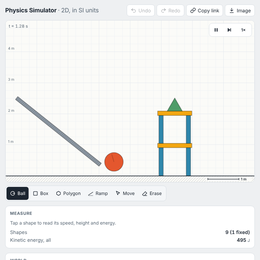
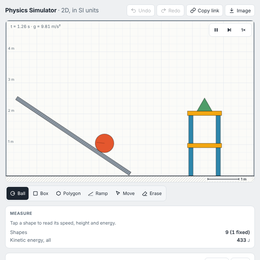
Physics Simulator: fixes from the second round of testers and critic
Bounce and friction travel in preset links; a ramp shows when boxes slide on
it (friction < tan θ) and the textbook speeds for its drop; a ball tapped
above a slope is set down onto it; the starter's ramp meets the floor; the
ball readout holds its top speed against the no-loss speed at that moment and
says where lost energy went; pinball bumpers no longer overlap; presets made
for dragging switch to Move; the desktop readout no longer spills over.

Claude-Session: https://claude.ai/code/session_01PtGPta4kEky6tFDtrsbbRC

diff --git a/tools/physics_simulator.html b/tools/physics_simulator.html
@@ -29,14 +29,15 @@ h1 span{font-weight:400;color:var(--soft)}
 .ib .tp{display:none}
 .layout{display:grid;gap:14px;grid-template-columns:minmax(0,1fr) 300px;grid-template-areas:'main side' 'scenes side';grid-template-rows:auto 1fr;align-items:start}
 .main{grid-area:main;min-width:0}
-.side{grid-area:side}
+.side{grid-area:side;min-width:0}
+.side .card{min-width:0}
 .scenes{grid-area:scenes}
 .scenes .presets{grid-template-columns:repeat(auto-fill,minmax(112px,1fr))}
 .scenes h2 .row{margin:0 0 0 auto;text-transform:none;letter-spacing:0}
 .scenes h2 .ib{height:30px;font-size:13px;font-weight:500;color:var(--ink)}
 .stage{position:relative;aspect-ratio:8/5.2;max-height:calc(100vh - 150px);max-height:calc(100svh - 150px);min-height:220px;margin:0 auto;border:1px solid var(--line);border-radius:12px;overflow:hidden;background:var(--paper)}
 canvas{display:block;width:100%;height:100%;touch-action:none;user-select:none;-webkit-user-select:none}
-.hud{position:absolute;top:8px;left:10px;font-size:13px;color:var(--soft);pointer-events:none}
+.hud{position:absolute;top:8px;left:10px;font-size:13px;color:var(--soft);pointer-events:none;background:color-mix(in srgb,var(--paper) 85%,transparent);border-radius:5px;padding:1px 5px}
 .play{position:absolute;top:8px;right:8px;display:flex;gap:4px;background:color-mix(in srgb,var(--card) 88%,transparent);border:1px solid var(--line);border-radius:10px;padding:3px}
 .play button{height:34px;min-width:36px;border:0;background:none;border-radius:7px;display:inline-flex;align-items:center;justify-content:center;padding:0 8px}
 .play button:hover{background:var(--btn)}
@@ -65,15 +66,18 @@ canvas{display:block;width:100%;height:100%;touch-action:none;user-select:none;-
 aside{display:grid;gap:14px}
 .card{background:var(--card);border:1px solid var(--line);border-radius:12px;padding:14px}
 .card h2{font-size:.8rem;text-transform:uppercase;letter-spacing:.06em;color:var(--soft);margin:0 0 10px;font-weight:650;display:flex;align-items:center;gap:8px}
-.ro .who{display:flex;align-items:center;gap:8px;font-weight:650;min-height:30px;margin-bottom:6px;padding-right:180px;white-space:nowrap;overflow:hidden}
+.ro .who{display:flex;align-items:center;gap:8px;font-weight:650;min-height:30px;margin-bottom:6px;white-space:nowrap;overflow:hidden}
 .ro .who span:last-child{overflow:hidden;text-overflow:ellipsis;min-width:0}
 .ro .sw{width:14px;height:14px;border-radius:4px;border:1px solid rgba(0,0,0,.25);flex:none}
 .ro .sw.round{border-radius:50%}
 .ro dl{display:grid;gap:3px;margin:0}
 .ro .m.tot{border-top:1px solid var(--line);padding-top:4px;margin-top:2px}
+.ro .m.chg dd{white-space:normal;text-align:right}
+.ro .m.chg dt{font-size:13px}
 .ro .m{display:flex;justify-content:space-between;align-items:baseline;gap:12px}
 .ro dt{color:var(--soft)}
 .ro dd{margin:0;text-align:right;font-weight:600;white-space:nowrap}
+.ro dt{min-width:0}
 .ro dd small{font-weight:400;color:var(--soft)}
 .ro .big{border-bottom:1px solid var(--line);padding-bottom:6px;margin-bottom:3px}
 .ro .big b{font-size:1.9rem;line-height:1.1;letter-spacing:-.01em}
@@ -127,13 +131,15 @@ aside{display:grid;gap:14px}
   .ro .m{display:block}
   .ro .m.tot{grid-column:1/-1;display:flex;justify-content:space-between;align-items:baseline}
   .ro .m.tot dt{font-size:14px;color:var(--ink);font-weight:600}
+  .ro .m.chg{grid-column:1/-1;display:flex;justify-content:space-between;gap:10px}
   .ro dt{font-size:12px}
   .ro dd{text-align:left}
   .ro .big{border:0;padding:0;margin:0}
   .ro .big b{font-size:1.25rem}
   .ro h2{display:none}
-  .scenes .presets{grid-template-columns:repeat(3,minmax(0,1fr))}
-  .scenes .presets button{font-size:13px;padding:4px 6px;min-height:40px}
+  .ro .who{padding-right:190px}
+  .scenes .presets{grid-template-columns:repeat(4,minmax(0,1fr));gap:5px}
+  .scenes .presets button{font-size:12.5px;padding:3px 5px;min-height:38px;line-height:1.2}
 
 
   .ro dl.idle{grid-template-columns:1fr 1fr}
@@ -398,12 +404,20 @@ function setFixed(w, b, on) {
   return true;
 }
 
-// Move a new body up until it overlaps nothing (at most `max` metres). A shape tapped onto a ramp sits on it.
-function settle(w, b, max) {
+// Place a new body so it rests where it was tapped: up out of anything it overlaps (at most `max` m), or, when it
+// was tapped just above something (within `drop` m), down until it touches. A ball tapped at a ramp's top sits on it.
+function settle(w, b, max, drop) {
   const overlaps = () => w.bodies.some(o => o !== b && !(o.maxX < b.minX || o.minX > b.maxX || o.maxY < b.minY || o.minY > b.maxY) && (() => { const m = o.id < b.id ? collide(o, b) : collide(b, o); return m && m.pts.some(p => p.pen > 0.002); })());
   let moved = 0;
   while (overlaps() && moved < (max || 1)) { b.y += 0.01; moved += 0.01; updateCache(b); }
-  return moved;
+  if (moved || !drop) return moved;
+  const y0 = b.y;
+  for (let d = 0.005; d <= drop + 1e-9; d += 0.005) {
+    b.y = y0 - d; updateCache(b);
+    if (b.minY < 0 || overlaps()) { b.y = y0 - d + 0.005; updateCache(b); return d > 0.005 ? -(d - 0.005) : 0; }
+  }
+  b.y = y0; updateCache(b);
+  return 0;
 }
 
 function removeBody(w, b) {
@@ -858,11 +872,13 @@ function rngFrom(seed) { let s = seed >>> 0 || 1; return () => { s ^= s << 13; s
 const PRESETS = {
   starter: {name: 'Ramp and stack', build(W, H) {
     // a fixed plank, a ball at its top, and a stack it reaches: the worked example on first visit
-    const b = [], x1 = Math.min(W * 0.38, 4.6), y0 = Math.min(H * 0.5, 3.4), y1 = 0.35, x0 = 0.35;
+    // the plank's lower end rests on the floor and the ball starts at its top, so the ball's top speed can be
+    // held against the textbook figure the ramp's own readout gives
+    const b = [], x1 = Math.min(W * 0.5, 4.6), y0 = Math.min(H * 0.5, 2.6), y1 = 0.06, x0 = 0.35;
     const L = Math.hypot(x1 - x0, y0 - y1), ang = Math.atan2(y1 - y0, x1 - x0), t = 0.12;
     b.push({s: 'p', v: boxVerts(L, t), x: (x0 + x1) / 2, y: (y0 + y1) / 2, a: ang, f: 1, c: '#8b96a1', l: 'ramp'});
     const r = 0.3, nx = -Math.sin(ang), ny = Math.cos(ang);
-    b.push({s: 'c', r, x: x0 + 0.5 * Math.cos(ang) + nx * (r + t / 2 + 0.01), y: y0 + 0.5 * Math.sin(ang) + ny * (r + t / 2 + 0.01), a: 0, c: '#e4572e'});
+    b.push({s: 'c', r, x: x0 + 0.3 * Math.cos(ang) + nx * (r + t / 2 + 0.002), y: y0 + 0.3 * Math.sin(ang) + ny * (r + t / 2 + 0.002), a: 0, c: '#e4572e'});
     // two storeys of uprights and lintels, as children build them
     const uw = 0.14, uh = 0.9, lw = 1.1, lh = 0.14, sx = Math.min(x1 + 2.4, W - lw / 2 - 0.4);
     for (let storey = 0; storey < 2; storey++) {
@@ -913,12 +929,13 @@ const PRESETS = {
     const b = [], cx = W / 2, half = Math.min(W / 2 - 0.15, 3.2), fl = Math.min(1.1, half * 0.36), fy = 0.9, rest = 0.45;
     const tip = 0.25, pL = [cx - tip - fl * Math.cos(rest), fy + fl * Math.sin(rest)], pR = [cx + tip + fl * Math.cos(rest), pL[1]];
     const rail = (x0, y0, x1, y1) => { const L = Math.hypot(x1 - x0, y1 - y0); b.push({s: 'p', v: boxVerts(L, 0.12), x: (x0 + x1) / 2, y: (y0 + y1) / 2, a: Math.atan2(y1 - y0, x1 - x0), f: 1, c: '#8b96a1', l: 'ramp'}); };
-    const gy = pL[1] + Math.min(1.6, (cx - half - pL[0]) * -0.6 + 0.4);
+    const gy = pL[1] + 0.9;
     rail(cx - half, gy, pL[0] - 0.02, pL[1] + 0.08);
     rail(cx + half, gy, pR[0] + 0.02, pR[1] + 0.08);
     if (cx - half > 0.3) { rail(cx - half, gy, cx - half, H); rail(cx + half, gy, cx + half, H); }
-    const bumpR = Math.min(0.3, half * 0.1), top = H - 1.0, span = top - (gy + 0.8);
-    for (const [fx, fy2] of [[-0.45, 0.85], [0.45, 0.85], [0, 0.55], [-0.5, 0.2], [0.5, 0.2]]) b.push({s: 'c', r: bumpR, x: cx + fx * half, y: gy + 0.8 + fy2 * span, a: 0, f: 1, e: 1.1, c: '#f3a712', l: 'bumper'});
+    // five bumpers in two staggered rows, at least a ball's width apart
+    const bumpR = Math.min(0.28, half * 0.1), r1 = gy + 0.75, r2 = Math.min(H - 0.9, r1 + 0.95), top = H - 0.4;
+    for (const [fx, y] of [[-0.55, r1], [0, r1], [0.55, r1], [-0.28, r2], [0.28, r2]]) b.push({s: 'c', r: bumpR, x: cx + fx * half, y, a: 0, f: 1, e: 1.1, c: '#f3a712', l: 'bumper'});
     b.push({s: 'p', v: boxVerts(fl, 0.16), x: pL[0] + Math.cos(-rest) * fl / 2, y: pL[1] + Math.sin(-rest) * fl / 2, a: -rest, k: 1, c: '#2e86ab', l: 'flipL', mu: 0.3});
     b.push({s: 'p', v: boxVerts(fl, 0.16), x: pR[0] - Math.cos(rest) * fl / 2, y: pR[1] - Math.sin(rest) * fl / 2, a: rest, k: 1, c: '#2e86ab', l: 'flipR', mu: 0.3});
     b.push({s: 'c', r: 0.15, x: cx + half * 0.2, y: top, a: 0, e: 0.5, c: '#e4572e', l: 'ball'});
@@ -949,7 +966,7 @@ function buildPreset(id, W, H, opt) {
   return {v: 1, g: d.g, e: opt && fin(opt.e) ? opt.e : 0.4, mu: opt && fin(opt.mu) ? opt.mu : 0.5, W, H, bodies: d.bodies, joints: d.joints || [], extra: Object.assign({preset: id}, d.extra || {})};
 }
 
-// Hash links: #preset=cradle, #g=1.62, #s=<scene> (the last only when someone asks for a link)
+// Hash links: #preset=cradle, #g=1.62, #e=0.8 (bounce), #mu=0.2 (friction), #s=<scene> (the last only when someone asks for a link)
 function parseHash(hash) {
   const out = {};
   const h = String(hash || '').replace(/^#/, '');
@@ -959,6 +976,8 @@ function parseHash(hash) {
     const k = part.slice(0, i), v = part.slice(i + 1);
     if (k === 'preset') { let id = decodeURIComponent(v).toLowerCase(); id = ({newton: 'cradle', newtons_cradle: 'cradle', domino: 'dominoes', stack: 'tower', sling: 'slingshot', billiards: 'pool'})[id] || id; if (PRESETS[id]) out.preset = id; else out.badPreset = id.slice(0, 30); }
     else if (k === 'g') { const r = parseNumber(decodeURIComponent(v), 0, G_MAX, 'gravity'); if (r.ok) out.g = r.value; }
+    else if (k === 'e') { const r = parseNumber(decodeURIComponent(v), 0, 1); if (r.ok) out.e = r.value; }
+    else if (k === 'mu') { const r = parseNumber(decodeURIComponent(v), 0, 1.5); if (r.ok) out.mu = r.value; }
     else if (k === 's') out.scene = v;
   }
   return out;
@@ -1057,12 +1076,13 @@ function loadPreset(id, opts) {
   const r = P.deserialize(d, worldW(), worldH());
   dirty = false;
   install(r.world, r.extra, true);
+  if (['slingshot', 'pool', 'tower', 'pinball'].includes(id) && !(opts && opts.keepTool)) setTool('move');
   if (!(opts && opts.quiet)) say(`${P.PRESETS[id].name}: ${presetHint(id)}`);
   save();
 }
 function presetHint(id) {
   return ({starter: 'the ball rolls down the ramp into the stack.', dominoes: 'the ball sets off the row.', cradle: 'watch the swing pass along the row.',
-    tower: 'drag a block out, or throw something at it.', slingshot: 'pull the stone back and let go.', pinball: 'the table is tilted, so gravity here is 6 m/s². Flippers: ← → keys or the buttons.',
+    tower: 'drag a block out, or throw something at it.', slingshot: 'pull the stone back and let go.', pinball: 'tilted table, g = 6 m/s². Flip with ← → or the buttons.',
     pool: 'drag the white ball and let go to shoot. Gravity is off: you look down on the table.'})[id] || '';
 }
 function markPreset(id) { for (const b of $('presets').children) b.setAttribute('aria-current', b.dataset.id === id ? 'true' : 'false'); }
@@ -1084,7 +1104,7 @@ function setGravity(g, from) {
     // say why a swinging or flying thing suddenly rises higher (or drops) than it started
     const moving = P.userBodies(world).some(b => b.invM > 0 && Math.hypot(b.vx, b.vy) > 0.3);
     clearTimeout(gHintT);
-    if (moving) gHintT = setTimeout(() => say(g < old ? 'Gravity is lower now: moving things keep their speed, so they rise higher than they started.' : 'Gravity is higher now: moving things keep their speed but won’t rise as high.'), 300);
+    if (moving) gHintT = setTimeout(() => say(g < old ? 'Gravity is lower now: moving things keep their speed, so they rise higher than they started. Pick the scene again to start it fresh.' : 'Gravity is higher now: moving things keep their speed but won’t rise as high.'), 300);
   }
   if (from !== 'text') { $('gtext').value = fmtG(g); $('gtext').removeAttribute('aria-invalid'); $('gerr').textContent = ''; }
   if (from !== 'range') $('grange').value = Math.min(30, g);
@@ -1360,7 +1380,7 @@ function endPointer(e) {
     pushUndo();
     const b = P.addBody(world, s);
     if (!b) { undo.pop(); syncUndo(); say('That shape is too small to make. Drag a little further.', true); return; }
-    if (!d.moved && !b.fixed) P.settle(world, b, 1.5);
+    if (!d.moved && !b.fixed) P.settle(world, b, 1.5, 0.4);
     select(b); edited();
     say('');
   } else if (d.kind === 'grab') {
@@ -1391,7 +1411,7 @@ function select(b) {
   renderReadout(true);
   if (b) announce(`Selected ${shapeName(b).toLowerCase()}${b.invM ? ', ' + fmtKg(b.m) + ' kilograms' : ', fixed'}.`);
 }
-let roT = 0, shownSpeed = '', peak = null, e0 = null;
+let roT = 0, shownSpeed = '', peak = null, e0 = null, k0 = 0, y0 = 0, t0 = 0;
 function ramp(b) { // a plank's own geometry: length along it, tilt from level, its two ends
   if (b.shape !== 'poly' || b.verts.length !== 4) return null;
   const e1 = Math.hypot(b.verts[1][0] - b.verts[0][0], b.verts[1][1] - b.verts[0][1]), e2 = Math.hypot(b.verts[2][0] - b.verts[1][0], b.verts[2][1] - b.verts[1][1]);
@@ -1405,14 +1425,20 @@ function renderFixed(el, force) {
   if (el.dataset.mode !== 'fixed' || force) {
     el.dataset.mode = 'fixed';
     el.innerHTML = `<div class="who"><span class="sw${b.shape === 'circle' ? ' round' : ''}" style="background:${b.color}"></span><span id="r_name"></span><span id="r_m" class="num" style="font-weight:400;color:var(--soft)"></span></div>
-      <dl>${r ? `<div class="m big"><dt>Angle</dt><dd><b id="f_deg"></b> <small>°</small></dd></div><div class="m"><dt>Length</dt><dd id="f_len"></dd></div>` : `<div class="m"><dt>Size</dt><dd id="f_size"></dd></div>`}
+      <dl>${r ? `<div class="m big"><dt>Angle</dt><dd><b id="f_deg"></b> <small>°</small></dd></div><div class="m"><dt>Length</dt><dd id="f_len"></dd></div><div class="m" title="A box on this slope slides when friction is below tan θ, whatever the gravity"><dt>Boxes slide if friction &lt;</dt><dd id="f_tan"></dd></div>
+      <div class="m" title="Height difference between the two ends of its top face"><dt>Drop of its top face</dt><dd id="f_drop"></dd></div>
+      <div class="m" title="From rest at the top to the lower end, with no losses: a rolling ball reaches √(10gh/7)"><dt>Rolled from top to bottom</dt><dd id="f_roll"></dd></div>
+      <div class="m" title="From rest at the top to the lower end, with no friction: a sliding body reaches √(2gh)"><dt>Slid from top to bottom</dt><dd id="f_slide"></dd></div>` : `<div class="m"><dt>Size</dt><dd id="f_size"></dd></div>`}
       <div class="m"><dt>Top edge</dt><dd id="f_top"></dd></div><div class="m"><dt>Bottom edge</dt><dd id="f_bot"></dd></div></dl>
-      <div class="rorow"><button class="ib" id="r_fix" title="Pin this shape where it is, or let it go (F)"><svg viewBox="0 0 24 24" fill="none" stroke="currentColor" stroke-width="2" stroke-linecap="round" stroke-linejoin="round"><path d="M12 17v5"/><path d="M9 3h6l-1 6 3 3v2H7v-2l3-3Z"/></svg><span id="r_fixt">Release</span></button><button class="ib" id="r_x" title="Deselect (Esc)">Done</button></div>`;
+      <div class="rorow"><button class="ib" id="r_fix" title="Pin this shape where it is, or let it go (F)"><svg viewBox="0 0 24 24" fill="none" stroke="currentColor" stroke-width="2" stroke-linecap="round" stroke-linejoin="round"><path d="M12 17v5"/><path d="M9 3h6l-1 6 3 3v2H7v-2l3-3Z"/></svg><span id="r_fixt">Unpin</span></button><button class="ib" id="r_x" title="Deselect (Esc)">Done</button></div>`;
     $('r_x').onclick = () => select(null); $('r_fix').onclick = toggleFixed; $('r_fix').hidden = !!b.kinematic;
   }
   $('r_name').textContent = shapeName(b);
   $('r_m').textContent = b.kinematic ? '· moved by the game' : '· pinned in place';
-  if (r) { $('f_deg').textContent = fmt(r.deg, 1); $('f_len').innerHTML = `${fmt(r.len, 2)} <small>m</small>`; }
+  if (r) { $('f_deg').textContent = fmt(r.deg, 1); $('f_len').innerHTML = `${fmt(r.len, 2)} <small>m</small>`; $('f_tan').innerHTML = r.deg >= 89.5 ? 'always' : `${fmt(Math.tan(r.deg * Math.PI / 180), 2)} <small>now ${fmt(world.friction, 2)}</small>`;
+    const h = r.len * Math.sin(r.deg * Math.PI / 180), g = world.gravity;
+    $('f_drop').innerHTML = `${fmt(h, 2)} <small>m</small>`;
+    $('f_roll').innerHTML = `${fmt(Math.sqrt(10 * g * h / 7), 2)} <small>m/s</small>`; $('f_slide').innerHTML = `${fmt(Math.sqrt(2 * g * h), 2)} <small>m/s</small>`; }
   else { const w = b.maxX - b.minX, h = b.maxY - b.minY; $('f_size').innerHTML = `${fmt(w, 2)} × ${fmt(h, 2)} <small>m</small>`; }
   $('f_top').innerHTML = `${fmt(b.maxY, 2)} <small>m</small>`; $('f_bot').innerHTML = `${fmt(Math.max(0, b.minY), 2)} <small>m</small>`;
   shownSpeed = '0.00';
@@ -1436,23 +1462,27 @@ function renderReadout(force) {
   }
   const m = P.measure(world, sel);
   if (m.fixed) { renderFixed(el, force); return; }
-  if (!peak || m.speed > peak.v) peak = {v: m.speed, t: world.time};
-  if (e0 == null) e0 = m.total;
+  if (e0 == null) { e0 = m.total; k0 = m.ke; y0 = sel.y; t0 = world.time; }
+  const rolls = sel.shape === 'circle' && world.friction > 0;
+  const idealAt = y => { const k = k0 + m.mass * world.gravity * (y0 - y); return k > 0 ? Math.sqrt(2 * k / (m.mass * (rolls ? 1.5 : 1))) : 0; };
+  if (!peak || m.speed > peak.v) peak = {v: m.speed, t: world.time, ideal: idealAt(sel.y)};
   if (el.dataset.mode !== 'sel' || force) {
     el.dataset.mode = 'sel';
-    el.innerHTML = `<div class="who"><span class="sw${sel.shape === 'circle' ? ' round' : ''}" style="background:${sel.color}"></span><span id="r_name"></span><span id="r_m" class="num" style="font-weight:400;color:var(--soft)"></span></div>
+    el.innerHTML = `<div class="who"><span class="sw${sel.shape === 'circle' ? ' round' : ''}" style="background:${sel.color}"></span><span id="r_name"></span><span id="r_m" class="num" style="font-weight:400;color:var(--soft)" title="Flat shapes weigh 100 kg per m² of their area"></span></div>
       <dl><div class="m big"><dt>Speed</dt><dd><b id="r_v"></b> <small>m/s</small></dd></div>
       <div class="m h"><dt>Height of centre</dt><dd id="r_h"></dd></div><div class="m"><dt title="x: + to the right, y: + upward">Velocity x→ y↑</dt><dd id="r_vxy"></dd></div>
       <div class="m e"><dt>Kinetic ½mv²</dt><dd id="r_lin"></dd></div><div class="m e"><dt>Spin ½Iω²</dt><dd id="r_rot"></dd></div>
       <div class="m e"><dt title="m·g·(height of centre above the floor)">Potential mgh</dt><dd id="r_pe"></dd></div><div class="m"><dt>Top speed so far</dt><dd id="r_peak"></dd></div>
-      <div class="m tot"><dt>Total energy</dt><dd id="r_tot"></dd></div></dl>
+      <div class="m" title="At the moment of its top speed: the speed it would have had if nothing had been lost since you selected it (its energy then, plus m·g·the height dropped). A ball is taken to roll (√(10gh/7) from rest), anything else to slide (√(2gh))."><dt>…with no losses</dt><dd id="r_ideal"></dd></div>
+      <div class="m tot"><dt>Total energy</dt><dd id="r_tot"></dd></div>
+      <div class="m chg" title="Energy passed to other shapes, or taken by bounces, friction and rolling, since you selected it"><dt id="r_chgt">Since selected</dt><dd id="r_chg"></dd></div></dl>
       <div class="rorow"><button class="ib" id="r_fix" title="Pin this shape where it is, or let it go (F)"><svg viewBox="0 0 24 24" fill="none" stroke="currentColor" stroke-width="2" stroke-linecap="round" stroke-linejoin="round"><path d="M12 17v5"/><path d="M9 3h6l-1 6 3 3v2H7v-2l3-3Z"/></svg><span id="r_fixt">Pin in place</span></button><button class="ib" id="r_x" title="Deselect (Esc)">Done</button></div>`;
     $('r_x').onclick = () => select(null);
     $('r_fix').onclick = toggleFixed;
     $('r_fix').hidden = !!sel.kinematic;
   }
   $('r_name').textContent = shapeName(sel);
-  const ft = m.fixed ? 'Release' : 'Pin in place';
+  const ft = m.fixed ? 'Unpin' : 'Pin in place';
   if ($('r_fixt').textContent !== ft) $('r_fixt').textContent = ft;
   shownSpeed = m.fixed ? '0.00' : fmt(m.speed, 2);
   $('r_v').textContent = shownSpeed;
@@ -1464,8 +1494,12 @@ function renderReadout(force) {
   $('r_pe').innerHTML = m.fixed ? '–' : `${fmtJ(m.pe)} <small>J</small>`;
   const lost = e0 - m.total;
   const dE = m.total - e0, showD = Math.abs(dE) > Math.max(0.5, Math.abs(e0) * 0.005);
-  $('r_tot').innerHTML = `${showD ? `<small title="Change since you selected it: energy passed to other shapes, or taken by bounces, friction and rolling">${dE > 0 ? '+' : '−'}${fmtJ(Math.abs(dE))} J since selected · </small>` : ''}${fmtJ(m.total)} <small>J</small>`;
+  $('r_tot').innerHTML = `${fmtJ(m.total)} <small>J</small>`;
+  $('r_chgt').textContent = `Since t = ${fmt(t0, 2)} s (${fmtJ(e0)} J)`;
+  $('r_chg').innerHTML = showD ? `<small>${dE > 0 ? '+' + fmtJ(dE) + ' J gained from pushes' : fmtJ(-dE) + ' J to bounces, friction and other shapes'}</small>` : '<small>no change</small>';
   $('r_peak').innerHTML = `${fmt(peak.v, 2)} <small>m/s at ${fmt(peak.t, 2)} s</small>`;
+  // energy at selection plus the drop to where the top speed was reached, all as motion: rolling ball ½mv²·1.5
+  $('r_ideal').innerHTML = peak.ideal > 0.01 ? `${fmt(peak.ideal, 2)} <small>m/s ${rolls ? 'rolling' : 'sliding'}</small>` : '–';
 }
 
 // ---------- messages ----------
@@ -1488,7 +1522,7 @@ $('tools').addEventListener('click', e => { const b = e.target.closest('button')
 function toggleFixed() {
   if (!sel || sel.kinematic) return;
   pushUndo(); const on = !(sel.invM === 0); P.setFixed(world, sel, on); edited(); renderReadout(true);
-  say(on ? 'Pinned: it won’t move or fall. Release lets it go.' : 'Released: it moves again.');
+  say(on ? 'Pinned: it won’t move or fall. Unpin lets it go.' : 'Unpinned: it moves again.');
 }
 $('sides').addEventListener('change', save);
 function setPaused(p) {
@@ -1585,7 +1619,8 @@ async function decodeScene(s) {
 }
 $('link').onclick = async () => {
   let hash;
-  if (!dirty && extra.preset) hash = `preset=${extra.preset}` + (Math.abs(world.gravity - P.buildPreset(extra.preset, 10, 8).g) > 0.001 ? `&g=${fmtG(world.gravity)}` : '');
+  if (!dirty && extra.preset) hash = `preset=${extra.preset}` + (Math.abs(world.gravity - P.buildPreset(extra.preset, 8, 5).g) > 0.001 ? `&g=${fmtG(world.gravity)}` : '')
+    + (Math.abs(world.restitution - 0.4) > 0.001 ? `&e=${+world.restitution.toFixed(2)}` : '') + (Math.abs(world.friction - 0.5) > 0.001 ? `&mu=${+world.friction.toFixed(2)}` : '');
   else hash = 's=' + await encodeScene();
   const url = location.origin + location.pathname + '#' + hash;
   history.replaceState(null, '', '#' + hash);
@@ -1649,7 +1684,7 @@ async function start() {
   }
   if (badLink) $('bannerText').textContent += loaded ? ' Showing your last scene instead.' : ' Showing the starter scene instead.';
   if (!loaded) loadPreset('starter', {noUndo: true, quiet: true});
-  if (h.g != null) setGravity(h.g);
+  applyHashSettings(h);
   requestAnimationFrame(t => { last = t; frame(t); });
 }
 window.addEventListener('hashchange', async () => {
@@ -1657,8 +1692,14 @@ window.addEventListener('hashchange', async () => {
   if (h.scene) { pushUndo(); await loadLinked(h.scene); }
   else if (h.preset) loadPreset(h.preset);
   else if (h.badPreset) banner(`There’s no scene called “${h.badPreset}”. Pick one under Scenes.`);
-  if (h.g != null) setGravity(h.g);
+  applyHashSettings(h);
 });
+function applyHashSettings(h) {
+  if (h.g != null) setGravity(h.g);
+  if (h.e != null) world.restitution = h.e;
+  if (h.mu != null) world.friction = h.mu;
+  if (h.e != null || h.mu != null) syncWorldControls();
+}
 async function loadLinked(code) {
   try {
     const r = P.deserialize(await decodeScene(code), worldW(), worldH());
